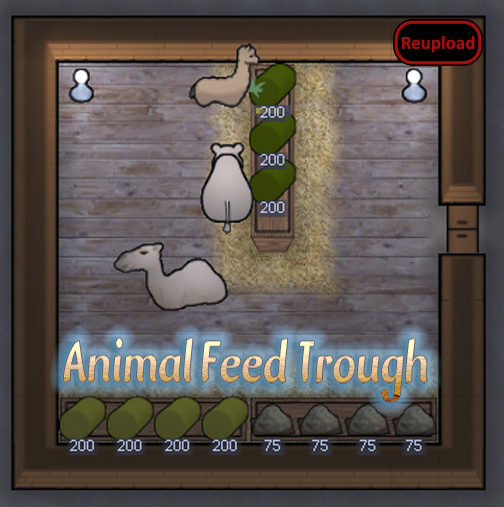
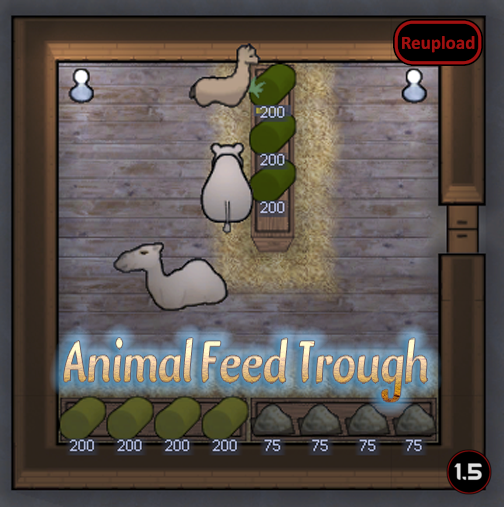
Mod updated for 1.5 and passed autotests

Changed region(s): [[0.8631, 0.8876, 0.9821, 0.9763]]

diff --git a/README.md b/README.md
@@ -10,6 +10,7 @@ https://ludeon.com/forums/index.php?topic=25580.msg259998#msg259998
 - Included patch for https://steamcommunity.com/sharedfiles/filedetails/?id=2553700067]Medieval Overhaul Straw
 - Included patch for https://steamcommunity.com/sharedfiles/filedetails/?id=2562519366]Rim Cuisine 2 Various crops
 - Added Portuguese translation, thanks Kyo
+- Added russian translation by younyokel
 - Added a smaller trough
 
 ![Image](https://i.imgur.com/pufA0kM.png)
@@ -29,12 +30,13 @@ Not any more. Get the 'Animal Feed Trough' and those pigs will be eating in styl
 
 -  See if the the error persists if you just have this mod and its requirements active.
 -  If not, try adding your other mods until it happens again.
--  Post your error-log using https://steamcommunity.com/workshop/filedetails/?id=818773962]HugsLib and command Ctrl+F12
+-  Post your error-log using https://steamcommunity.com/workshop/filedetails/?id=818773962]HugsLib or the standalone https://steamcommunity.com/sharedfiles/filedetails/?id=2873415404]Uploader and command Ctrl+F12
 -  For best support, please use the Discord-channel for error-reporting.
 -  Do not report errors by making a discussion-thread, I get no notification of that.
 -  If you have the solution for a problem, please post it to the GitHub repository.
+-  Use https://github.com/RimSort/RimSort/releases/latest]RimSort to sort your mods
 
 
 
+https://steamcommunity.com/sharedfiles/filedetails/changelog/2071757940]![Image](https://img.shields.io/github/v/release/emipa606/AnimalFeedTrough?label=latest%20version&style=plastic&color=9f1111&labelColor=black)
 
-https://steamcommunity.com/sharedfiles/filedetails/changelog/2071757940]Last updated 2023-04-22
